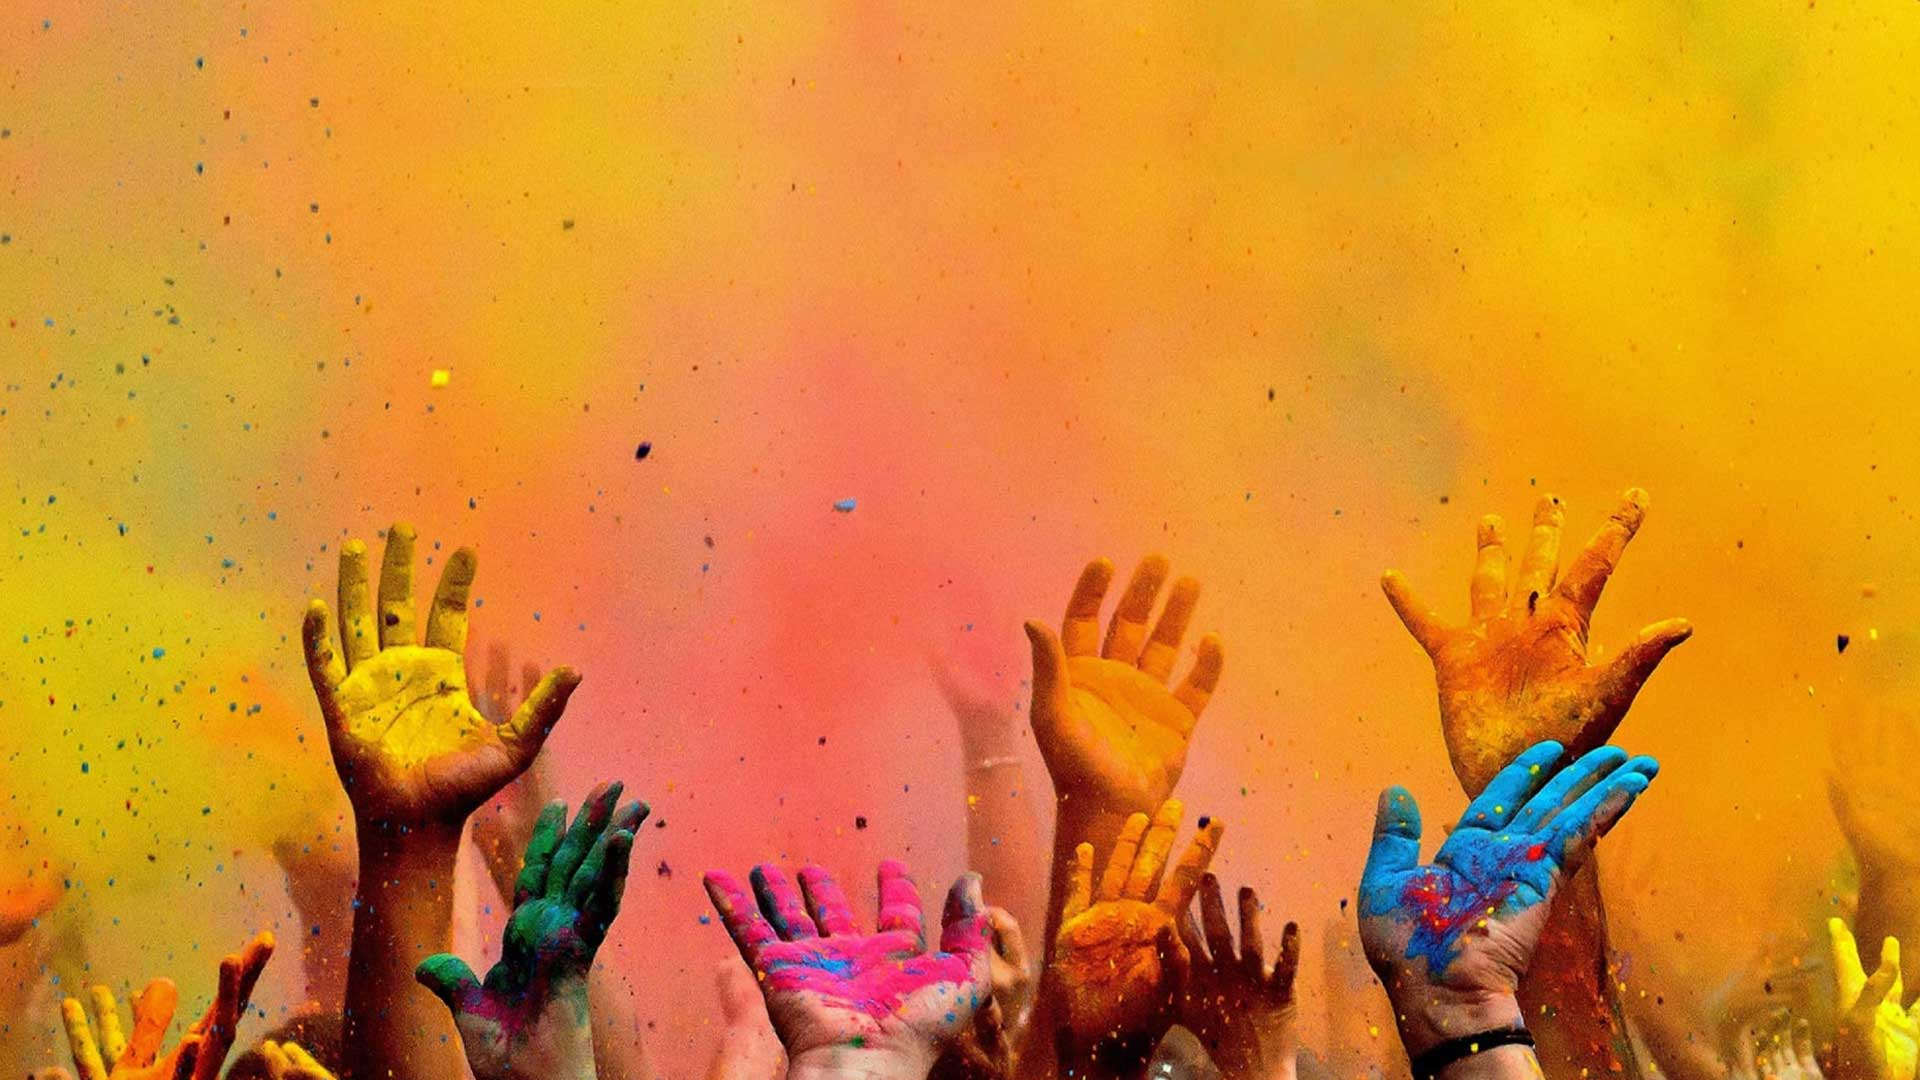
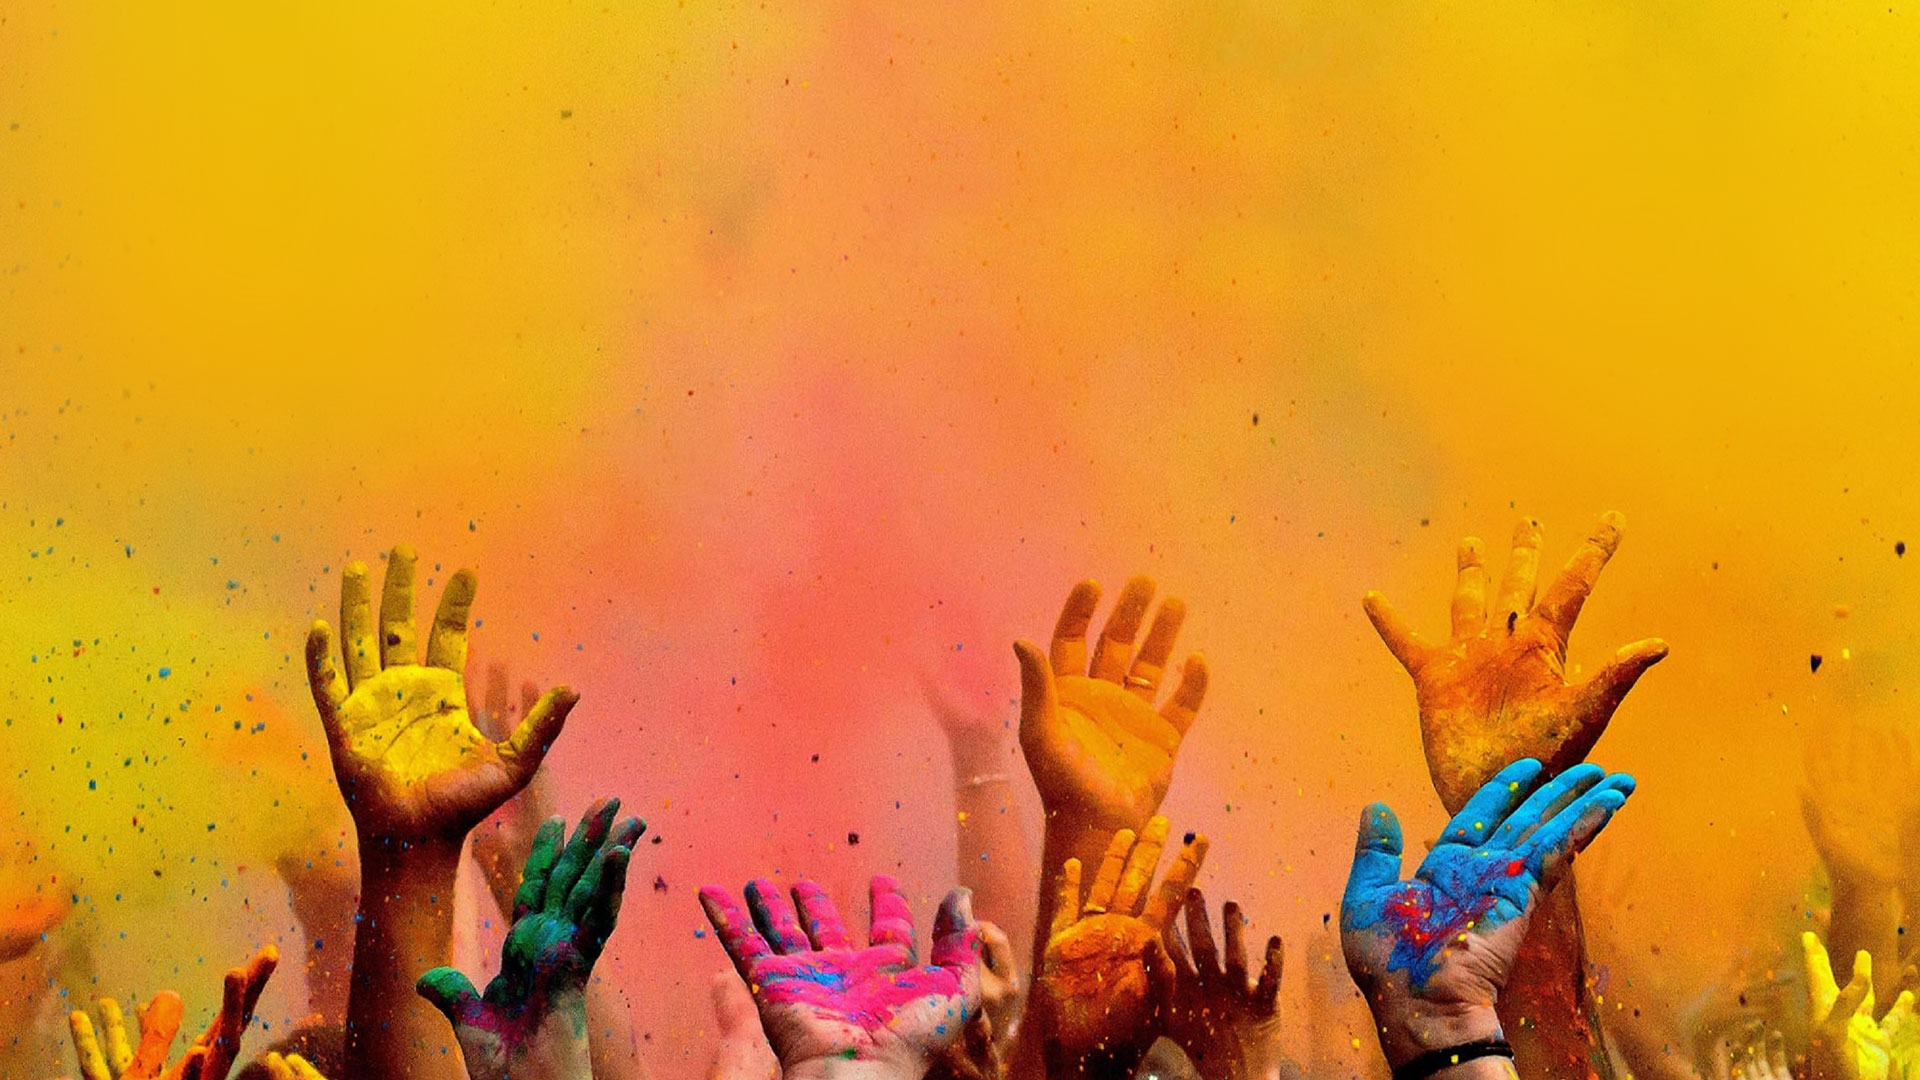
Create Your Solution
page launched | pending changes for back history

diff --git a/inc/css/teq-4-0-layout_styles.css b/inc/css/teq-4-0-layout_styles.css
@@ -921,23 +921,37 @@ h1.page-titles, h1.page-titles a {
 /*
 THE COMPLETE THOUGHT
 */
-div#primary main#main section.the-complete-thought {
-	height: 100vh;
+div#primary main#main section.the-complete-thought, div#primary main#main section.the-complete-thought > .container, div#primary main#main section.the-complete-thought > .container > .columns {
 	position: relative;
+}
+div#primary main#main section.the-complete-thought {
+	min-height: 100vh;
 	padding-top: 7.5rem;
 	background-size: cover;
 	background-repeat: no-repeat;
+	background-position: center;
 	background-image: url('../images/the-complete-thought_main-bg-1920x1080.jpg');
 }
+div#primary main#main section.the-complete-thought .title {
+	font-size: calc(2.1rem + 2.1vw);
+}
 section.the-complete-thought .accordion-container > .accordion-content {
-	min-height: 24vh;
+	min-height: calc(30vh + 3vw);
 	padding-top: 30px;
 	padding-bottom: 42px;
 }
-
+section.the-complete-thought .accordion-container > .accordion-content .accordion-item {
+	opacity: 1;
+}
+section.the-complete-thought .accordion-container > .accordion-content .accordion-item.ng-hide-add, section.the-complete-thought .accordion-container > .accordion-content .accordion-item.ng-hide-remove {
+  transition: all linear 0.5s;
+}
+section.the-complete-thought .accordion-container > .accordion-content .accordion-item.ng-hide {
+	opacity: 0;
+}
 section.the-complete-thought .accordion-container > .accordion-content h2 {
 	font-weight: 400;
-	font-size: 1.5rem;
+	font-size: calc(1.5rem + .5vw);
 }
 section.the-complete-thought .accordion-container > .accordion-ui {
 	display: flex;
@@ -945,21 +959,24 @@ section.the-complete-thought .accordion-container > .accordion-ui {
 	justify-content: center;
 }
 section.the-complete-thought .accordion-container > .accordion-ui button {
-	height: 60px;
+	height: 66px;
 	width: 99px;
-	margin-right: 3px;
+	margin-right: 6px;
 	padding: 6px 33px;
-	background-color: rgba(0,0,0,.75);
+	background-color: #1b1b1b;
 	border: none;
 	border-radius: 6px;
-	opacity: 0.48;
 	cursor: pointer;
 }
-section.the-complete-thought .accordion-container > .accordion-ui button.active {
-	opacity: 1;
+section.the-complete-thought .accordion-container > .accordion-ui button:disabled {
+	opacity: 0.48;
 }
-section.the-complete-thought .accordion-container > .accordion-ui button > * {
+section.the-complete-thought .accordion-container > .accordion-ui button svg > * {
 	fill: #FFFFFF;
+}
+section.the-complete-thought .accordion-container > .accordion-ui button.active:hover {
+	border: 1.5px solid #1b1b1b;
+	box-shadow: inset 3px 3px 12px #000000;
 }
 section.the-complete-thought > .sticky-bottom-container {
 	position: sticky;
@@ -972,6 +989,21 @@ section.the-complete-thought > .sticky-bottom-container > .container {
 	align-items: center;
 	justify-content: center;
 	padding: 15px;
+}
+section.the-complete-thought > .sticky-bottom-container a.flex-button {
+	display: flex;
+	align-items: center;
+	justify-content: center;
+	padding: 15px;
+	font-weight: 600;
+	font-size: 21px;
+	color: #FFFFFF;
+}
+section.the-complete-thought > .sticky-bottom-container a.flex-button svg {
+	height: 48px;
+	width: auto;
+	margin-left: 21px;
+	margin-right: 21px;
 }
 
 /*

diff --git a/js/app.js b/js/app.js
@@ -18,6 +18,16 @@
    };
  });
 
+
+/**
+  * FILTER TO ALLOW HTML CHARACTARS IN STRING
+  */
+ app.filter('trustAsHtml',['$sce', function($sce) {
+    return function(text) {
+      return $sce.trustAsHtml(text);
+    };
+  }]);
+
 /**
   * Menu Buttons for Main Dropdown
   * Show Main menu for scope.mainMenu
@@ -204,8 +214,8 @@
       { id: "4", content: "Here’s why we’re qualified to help you." },
       { id: "5", content: "For 50 years, we’ve been in the trenches of K12 education, watching it evolve, and seeing first-hand how technology has impacted learning." },
       { id: "6", content: "It occurred to us that if we add up our history, staff, resources, and expertise, we could start our own school. So, to show you just how equipped we are, we’ve created a case study to lay out how we would do it." },
-      { id: "7", content: "Take a look at our hypothetical case study here, or head straight to our Evolve page, where you’ll get the big-picture ideas and ideology that guide the evolution of education." },
-      { id: "8", content: "When you’re ready to take those ideas and build own solution, head to our Create page where we’ll guide you through a unique solution for your school or district — everything from STEM solutions to project-based learning to professional development." },
+      { id: "7", content: "Take a look at our hypothetical <strong class='modal-open-button' id='caseStudyDownload'><u>case study here,</u></strong> or head straight to our <a href='/evolve'><strong><u>Evolve</u></strong></a> page, where you’ll get the big-picture ideas and ideology that guide the evolution of education." },
+      { id: "8", content: "When you’re ready to take those ideas and build own solution, head to our <a href='/create-your-solution'><strong><u>Create</u></strong></a> page where we’ll guide you through a unique solution for your school or district — everything from STEM solutions to project-based learning to professional development." },
       { id: "9", content: "Together, we can help you create your own Complete Thought." }
     ];
 
@@ -217,7 +227,6 @@
       $scope.show = $scope.show - 1;
         console.log($scope.show);
     }
-
   });
 
 
@@ -379,3 +388,23 @@
     window.addEventListener("scroll", function(){
         amountScrolled()
     }, false);
+
+
+    $(document).ready(function() {
+      // MODAL FUNCTION
+      // GET THE ID OF THE CLICKED Element
+      // FIND THE MATCHING ELEMENT WITH ATTRIBUTE title
+      // addClass TO MATCHING Element
+      $('body').on('click', ".modal-open-button", function() {
+        var modalTitle = $(this).attr("id");
+        var modalTarget = $(".modal[data-modal-title='" + modalTitle + "']");
+          $(modalTarget).addClass("is-active");
+      });
+
+      // CLOSE MODAL FUNCTION
+      // GLOBAL FUNCTION
+      // FIND ANY ELEMENT WITH CLASS "modal" REMOVE CLASS "is-active"
+      $('body').on('click', ".close-modal", function() {
+        $(".modal").removeClass("is-active")
+      });
+    });

diff --git a/template-pages/completethought.php b/template-pages/completethought.php
@@ -14,22 +14,20 @@
 
 
          <div class="container">
- 					<div class="columns is-vcentered">
+ 					<div class="columns">
  						<div class="column is-full-desktop is-full-tablet is-full-mobile has-text-centered">
-           		<h1 class="serif-text text-shadow less-letter-spacing white-text extra-large-header">We’re not the company you think we are.  </h1>
+           		<h1 class="serif-text text-shadow less-letter-spacing white-text title">We’re not the company you think we are.  </h1>
  							<section class="accordion-container" ng-controller="theCompleteThought">
 								<div class="accordion-content">
-									<h2 ng-repeat="item in items" class="accordion-item" ng-show="show == {{item.id}}" ng-class="{'is-active': item == items[0]}">
-										{{item.content}}
-									</h2>
+									<h2 ng-repeat="item in items" class="accordion-item sub-header-title" ng-show="show == {{item.id}}" ng-bind-html="item.content|trustAsHtml"></h2>
 								</div>
 								<div class="accordion-ui">
-									<button type="button" class="prev" ng-class="{'active': show < {{items.length + 1}}}" ng-disabled="show < 1" ng-click="prevItem()">
+									<button type="button" class="prev" ng-class="{'active': show > 1}" ng-disabled="show < 2" ng-click="prevItem()">
 										<svg version="1.1" viewBox="0 0 50 50">
 											<polygon points="22.005,3.425 0.289,25.142 0.293,25.146 0.289,25.15 21.957,46.817 29.104,39.67 19.622,30.189 49.594,30.189 49.594,20.082 19.641,20.082 29.152,10.571 	"/>
 										</svg>
 									</button>
-									<button type="button" class="next" ng-class="{'active': show > 0}" ng-disabled="show > {{items.length + 1}}" ng-click="nextItem()">
+									<button type="button" class="next" ng-class="{'active': show < {{items.length - 1}}}" ng-disabled="show > {{items.length - 1}}" ng-click="nextItem()">
 										<svg version="1.1" viewBox="0 0 50 50">
 											<polygon points="27.878,46.817 49.594,25.1 49.59,25.096 49.594,25.092 27.926,3.425 20.779,10.572 30.261,20.053 0.289,20.053  0.289,30.16 30.242,30.16 20.731,39.671 	"/>
 										</svg>
@@ -44,9 +42,52 @@
 					 <div class="container">
 						 <div class="columns">
 							 <div class="column is-full">
-								 View the Case Study
+								 <a href id="caseStudyDownload" class="flex-button serif-text modal-open-button">
+                   <svg version="1.1" viewBox="0 0 50 50">
+                   	<path fill="#FAEF02" d="M24.535,36.851c0.994-0.757,1.929-1.468,2.907-2.212c0.322,0.504,0.605,0.947,0.904,1.416 c-0.331,0.249-0.62,0.466-0.91,0.683c0.013,0.025,0.027,0.05,0.04,0.074c0.669-0.173,1.338-0.347,2.09-0.542 c0.134,0.522,0.265,1.029,0.407,1.582c-0.248,0.078-0.483,0.15-0.716,0.224c-1.717,0.543-3.431,1.097-5.155,1.618 c-0.268,0.081-0.612,0.095-0.868-0.001c-4.476-1.671-9.089-2.731-13.851-3.111c-1.424-0.114-2.854-0.153-4.283-0.204 c-0.881-0.031-1.154-0.282-1.155-1.157c-0.001-5.669-0.001-11.338-0.001-17.008c0-0.213,0-0.427,0-0.684c-0.569,0-1.114,0-1.706,0 c0,7.117,0,14.255,0,21.455c0.215,0,0.424,0,0.633,0c5.096,0,10.192,0.005,15.288-0.007c0.524-0.001,0.912,0.159,1.266,0.551 c0.563,0.623,1.167,1.21,1.78,1.784c0.149,0.139,0.401,0.233,0.607,0.236c1.233,0.022,2.468,0.024,3.701-0.001 c0.22-0.004,0.486-0.116,0.647-0.267c0.665-0.623,1.283-1.298,1.953-1.915c0.206-0.189,0.522-0.363,0.789-0.365 c3.629-0.022,7.259-0.012,10.889-0.01c0.034,0,0.068,0.016,0.152,0.036c0,0.51,0,1.034,0,1.637c-0.201,0-0.408,0-0.616,0 c-3.201,0-6.401,0.007-9.602-0.01c-0.411-0.002-0.702,0.117-0.979,0.412c-0.563,0.599-1.13,1.201-1.753,1.734 c-0.271,0.232-0.68,0.409-1.033,0.419c-1.518,0.045-3.039,0.006-4.559,0.027c-0.469,0.006-0.818-0.149-1.134-0.483 c-0.554-0.583-1.147-1.13-1.696-1.717c-0.265-0.283-0.542-0.393-0.934-0.392c-5.293,0.013-10.585,0.009-15.878,0.008 c-0.997,0-1.247-0.243-1.247-1.219c0-7.493,0-14.987,0-22.48c0-0.883,0.273-1.157,1.145-1.16c0.697-0.002,1.395-0.003,2.092-0.006 c0.035,0,0.07-0.012,0.195-0.036c0-0.365,0-0.75,0-1.134c0-0.501,0-1.002,0-1.502c0-1.523,0.107-1.625,1.655-1.607 c0.567,0.007,1.135,0.001,1.778,0.001c0-0.76-0.002-1.541,0-2.321c0.002-0.839,0.298-1.14,1.129-1.115 c5.565,0.164,10.411,2.112,14.522,5.873c0.197,0.18,0.391,0.365,0.633,0.59c0.161-0.146,0.318-0.282,0.468-0.424 c3.591-3.389,7.854-5.336,12.745-5.919c0.691-0.082,1.39-0.101,2.087-0.118c0.659-0.016,0.985,0.316,0.992,0.981 c0.009,0.818,0.002,1.637,0.002,2.456c0.586,0,1.116,0.006,1.645-0.001c1.743-0.022,1.791,0.025,1.789,1.794 c-0.001,0.803,0,1.605,0,2.488c0.811,0,1.59-0.004,2.369,0.001c0.766,0.005,1.062,0.304,1.063,1.08 c0.002,5.472,0.001,10.945,0.002,16.417c0,0.14,0,0.281,0,0.457c-0.563,0-1.088,0-1.661,0c0-5.401,0-10.794,0-16.231 c-0.589,0-1.133,0-1.745,0c0,1.663,0,3.349,0,5.071c-0.591,0-1.116,0-1.693,0c0-3.112,0-6.215,0-9.339c-0.61,0-1.167,0-1.767,0 c0,2.003,0,3.947,0,5.934c-0.567,0-1.091,0-1.681,0c0-3.134,0-6.253,0-9.518c-1.347,0.219-2.623,0.354-3.864,0.643 c-3.714,0.865-6.891,2.712-9.552,5.438c-0.179,0.183-0.338,0.483-0.338,0.729c-0.018,6.67-0.014,13.341-0.013,20.011 C24.51,36.601,24.524,36.704,24.535,36.851z M22.829,36.926c0-0.331,0-0.508,0-0.685c0-6.438-0.011-12.875,0.017-19.312 c0.003-0.642-0.213-1.059-0.649-1.481c-3.019-2.918-6.588-4.739-10.726-5.434c-0.78-0.131-1.574-0.176-2.383-0.263 c0,7.231,0,14.359,0,21.526C14.283,31.566,18.82,33.434,22.829,36.926z M5.653,34.7c4.877,0.106,9.609,0.804,14.265,2.093 c-0.115-0.148-0.246-0.256-0.385-0.352c-3.299-2.269-6.956-3.419-10.954-3.497C7.63,32.925,7.38,32.678,7.38,31.726 c0-5.934,0-11.868,0-17.801c0-0.207,0-0.415,0-0.672c-0.615,0-1.158,0-1.727,0C5.653,20.391,5.653,27.513,5.653,34.7z"/>
+                   	<path fill="#FAEF02" d="M40.29,35.203c-2.246,1.709-4.637,2.435-7.327,1.794c-2.158-0.514-3.857-1.731-5.145-3.528 c-2.395-3.341-1.945-7.945,1.058-10.863c3.15-3.061,7.667-3.349,11.127-0.667c1.874,1.452,2.998,3.37,3.308,5.742 c0.313,2.39-0.452,4.466-1.902,6.391c0.506,0.502,0.988,1.002,1.499,1.468c0.1,0.091,0.332,0.104,0.479,0.064 c1.16-0.314,2.137-0.058,2.972,0.828c0.748,0.793,1.541,1.544,2.307,2.32c1.072,1.086,1.096,2.765,0.061,3.805 c-1.037,1.042-2.721,1.028-3.804-0.039c-0.802-0.791-1.582-1.605-2.394-2.384c-0.833-0.799-1.071-1.751-0.768-2.836 c0.086-0.307,0.03-0.492-0.182-0.706C41.141,36.147,40.729,35.678,40.29,35.203z M41.713,28.708 c0.008-3.921-2.925-6.915-6.787-6.929c-3.986-0.015-6.973,2.912-6.982,6.842c-0.009,3.94,2.935,6.921,6.841,6.93 C38.723,35.56,41.705,32.615,41.713,28.708z M48.046,40.758c-0.178-0.297-0.255-0.504-0.397-0.649 c-0.924-0.942-1.853-1.88-2.799-2.801c-0.449-0.437-0.788-0.39-1.284,0.11c-0.491,0.495-0.53,0.828-0.085,1.284 c0.908,0.933,1.835,1.847,2.759,2.765c0.254,0.253,0.574,0.457,0.901,0.209C47.477,41.423,47.741,41.075,48.046,40.758z"/>
+                   	<path fill="#FAEF02" d="M26.78,19.013c-0.356-0.463-0.67-0.87-1.017-1.321c3.165-2.413,6.678-3.859,10.625-4.447 c0.046,0.275,0.095,0.531,0.131,0.788c0.037,0.265,0.062,0.531,0.1,0.863C33.007,15.412,29.723,16.743,26.78,19.013z"/>
+                   	<path fill="#FAEF02" d="M21.583,23.701c-0.369,0.473-0.685,0.877-1.027,1.315c-2.93-2.249-6.208-3.597-9.824-4.106 c0-0.106-0.006-0.159,0.001-0.21c0.065-0.458,0.131-0.916,0.207-1.44C14.871,19.82,18.385,21.286,21.583,23.701z"/>
+                   	<path fill="#FAEF02" d="M21.549,29.69c-0.057,0.101-0.085,0.166-0.127,0.221c-0.271,0.354-0.545,0.706-0.86,1.114 c-2.913-2.227-6.181-3.592-9.849-4.104c0.076-0.554,0.147-1.075,0.226-1.654C14.875,25.837,18.394,27.292,21.549,29.69z"/>
+                   	<path fill="#FAEF02" d="M10.711,14.899c0.079-0.57,0.152-1.093,0.23-1.654c3.933,0.576,7.447,2.027,10.639,4.447 c-0.341,0.441-0.663,0.858-1.017,1.317C17.636,16.764,14.36,15.411,10.711,14.899z"/>
+                   	<path fill="#FAEF02" d="M29.724,31.177c0-0.521,0-1.033,0-1.591c1.958,0,3.923,0,5.916,0c0,0.521,0,1.033,0,1.591 C33.682,31.177,31.717,31.177,29.724,31.177z"/>
+                   	<path fill="#FAEF02" d="M33.158,27.761c0-0.552,0-1.075,0-1.626c1.123,0,2.218,0,3.339,0c0,0.552,0,1.075,0,1.626 C35.374,27.761,34.28,27.761,33.158,27.761z"/>
+                   	<path fill="#FAEF02" d="M39.932,29.587c0,0.557,0,1.068,0,1.607c-0.836,0-1.645,0-2.482,0c0-0.549,0-1.073,0-1.607 C38.297,29.587,39.119,29.587,39.932,29.587z"/>
+                   	<path fill="#FAEF02" d="M31.345,27.763c-0.567,0-1.078,0-1.619,0c0-0.548,0-1.071,0-1.625c0.541,0,1.064,0,1.619,0 C31.345,26.68,31.345,27.203,31.345,27.763z"/>
+                   	<path fill="#FAEF02" d="M39.938,26.141c0,0.558,0,1.068,0,1.613c-0.544,0-1.067,0-1.625,0c0-0.532,0-1.055,0-1.613 C38.844,26.141,39.368,26.141,39.938,26.141z"/>
+                   </svg>
+									 View the Case Study
+                   <svg version="1.1" viewBox="0 0 50 50">
+                   	<polygon fill="#FAEF02" points="27.937,46.817 49.653,25.1 49.649,25.096 49.653,25.092 27.985,3.425 20.838,10.572 30.32,20.053  0.347,20.053 0.347,30.16 30.301,30.16 20.79,39.671 	"/>
+                   </svg>
+
+								 </a>
 							 </div>
 						 </div>
+					 </div>
+				 </div>
+
+				 <div class="modal" data-modal-title="caseStudyDownload">
+					 <div class="modal-background"></div>
+					 <div class="modal-card">
+						 <header class="modal-card-head">
+							 <p class="modal-card-title">View the Case Study</p>
+							 <button class="delete close-modal"></button>
+						 </header>
+						 <section class="modal-card-body">
+               <p>Using the form below, you will be able to download a pdf copy of our case study.</p>
+               <br />
+               <!--[if lte IE 8]>
+               <script charset="utf-8" type="text/javascript" src="//js.hsforms.net/forms/v2-legacy.js"></script>
+               <![endif]-->
+               <script charset="utf-8" type="text/javascript" src="//js.hsforms.net/forms/v2.js"></script>
+               <script>
+                hbspt.forms.create({
+	                 portalId: "182596",
+	                 formId: "ff5294f6-3316-40ca-b55e-b67b9943cdf4"
+                });
+               </script>
+						 </section>
 					 </div>
 				 </div>
 

diff --git a/template-pages/createyoursolution_3.php b/template-pages/createyoursolution_3.php
@@ -20,7 +20,7 @@ get_header();
 				$args = array(
 					'post_type' => 'product-and-service',
 					'category_name' => 'coding, engineering, robotics, hydroponics, general-education',
-					'posts_per_page' => 3,
+					'posts_per_page' => 2,
 					'orderby' => 'rand'
 				);
 
@@ -63,7 +63,7 @@ get_header();
 							</div>
 							<button type="button" class="submit-button margin-auto ui white outer dark {{products_search_form.schoolName.$valid}} {{products_search_form.schoolEmail.$valid}}" ng-click="gradeSelection()"><span class="inner">NEXT</span></button>
 							<div class="level-right absolute-position">
-								<p class="level-item margin-left margin-right"><a class="caption disabled" href><em>TEQ PRIVACY POLICY</em></a></p>
+								<p class="level-item margin-left margin-right"><a class="caption disabled" href="/teq-privacy-policy/"><em>TEQ PRIVACY POLICY</em></a></p>
 							</div>
 						</div>
 					</div>
@@ -80,10 +80,10 @@ get_header();
 							<div class="column is-one-third-desktop is-full-tablet is-full-mobile ui ui-container">
 								<p class="text-padding" ng-bind-html="gradeContent"></p>
 								<div class="ui radio-selections">
-									<input type="radio" id="gradeK2Selected" name="grade" value="grades-k-2" ng-checked="gradek2Select">
-									<input type="radio" id="grade35Selected" name="grade" value="grades-3-5" ng-checked="grade35Select">
-									<input type="radio" id="grade68Selected" name="grade" value="grades-6-8" ng-checked="grade68Select">
-									<input type="radio" id="grade912Selected" name="grade" value="grades-9-12" ng-checked="grade912Select">
+									<input type="radio" id="gradeK2Selected" name="grade" ng-value="grades-k-2" ng-checked="gradek2Select">
+									<input type="radio" id="grade35Selected" name="grade" ng-value="grades-3-5" ng-checked="grade35Select">
+									<input type="radio" id="grade68Selected" name="grade" ng-value="grades-6-8" ng-checked="grade68Select">
+									<input type="radio" id="grade912Selected" name="grade" ng-value="grades-9-12" ng-checked="grade912Select">
 								</div>
 							</div>
 							<div class="column is-one-third-desktop is-full-tablet is-full-mobile ui ui-container">

diff --git a/template-pages/createyoursolution_3_prelim.php b/template-pages/createyoursolution_3_prelim.php
@@ -56,7 +56,7 @@ get_header();
 						<div class="padding-bottom">
 							<h4 class="strong margin-bottom"><?php echo $gradeLevelName; ?>, <?php echo $stemFocusName; ?>, <?php echo $generalEdName; ?></h4>
 							<h1>Customize Your <?php echo $schoolName; ?> Solution</h1>
-							<h5>This page will guide you through recommended solutions. As you navigate through the tabs, you’ll be able to look at 1Products, Instructional Materials, and Instructional Support. Select all the options that interest you, and we’ll build your solution.</h5>
+							<h5>This page will guide you through recommended solutions. As you navigate through the tabs, you’ll be able to look at Products, Instructional Materials, and Instructional Support. Select all the options that interest you, and we’ll build your solution.</h5>
 						</div>
 
 						<nav class="ui product-tabs-nav main outer dark">

diff --git a/404.php b/404.php
@@ -15,11 +15,11 @@ get_header();
 
 		<section class="full-section padding-bottom">
 
-			<div class="page-content">
+			<div class="page-content padding-top">
 				<div class="container">
-					<div class="columns is-vcentered is-desktop">
+					<div class="columns is-vcentered is-desktop padding-top">
  						<div class="column is-8 is-offset-2">
-							<p class="has-text-centered">
+							<p class="has-text-centered padding-top">
 	 							<img src="<?php echo get_template_directory_uri() . '/inc/images/404-error-image.gif'; ?>" alt="404 error" />
 							</p>
 							<h5 class="has-text-centered sub-header">We seem to be having some <strong>Teq</strong><em>&bull;ni&bull;cal</em> difficulties.</h5>
